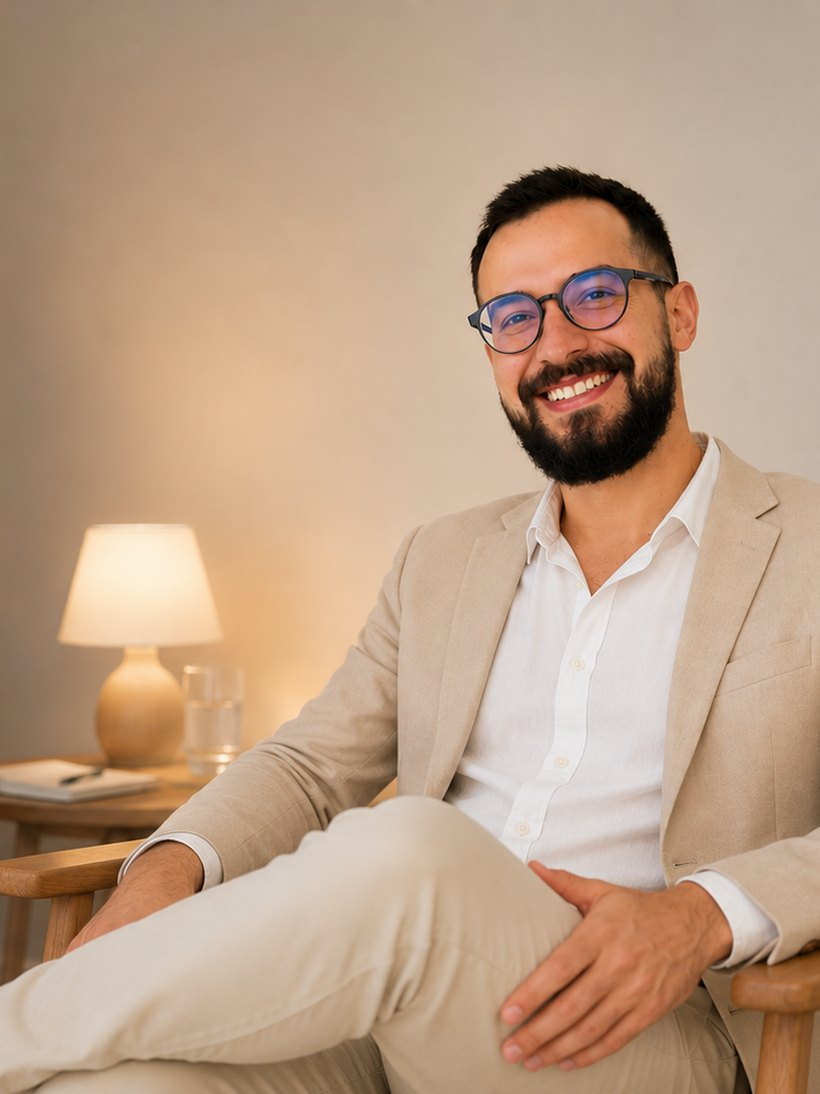
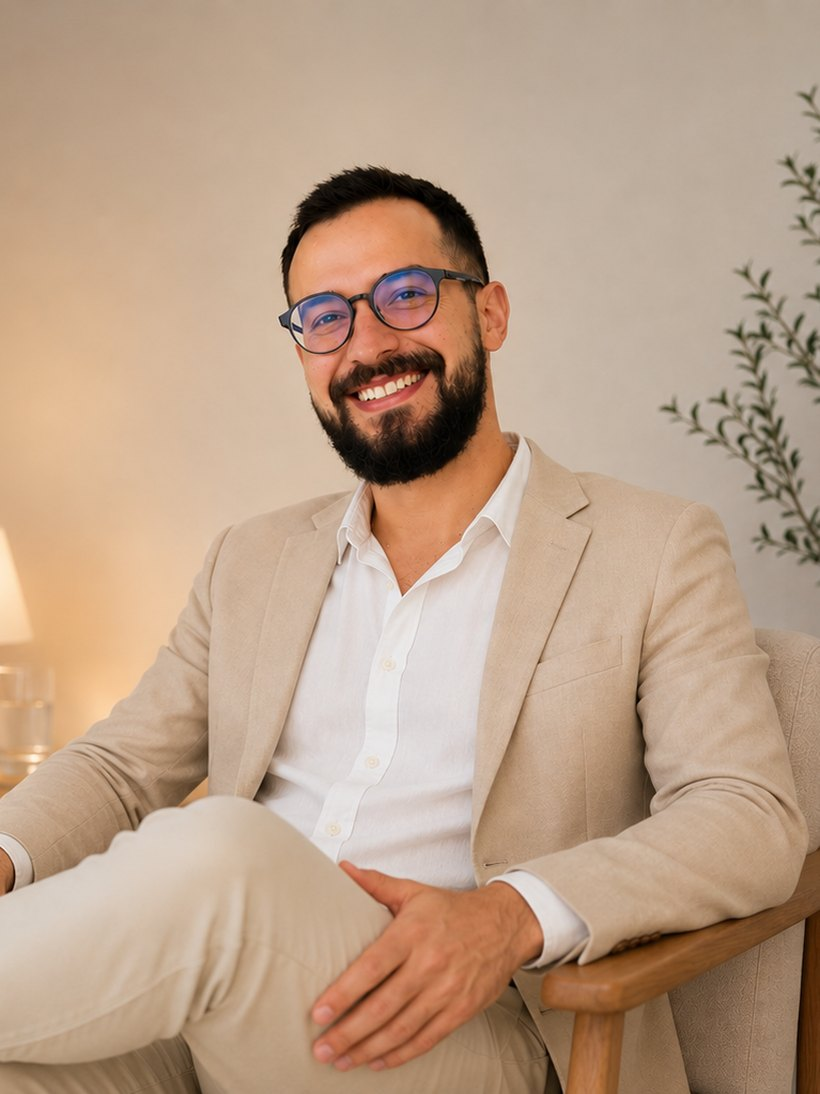
feat(v6.4): hero badge sem traço (HÍBRIDO na mesma linha) + cores legíveis, foto hero centrada no rosto, animações reforçadas no mobile, "como trabalho" object-top, sticky bar maior

diff --git a/src/components/landing/HeroBackdrop.tsx b/src/components/landing/HeroBackdrop.tsx
@@ -12,42 +12,20 @@ const HeroBackdrop = () => {
         viewBox="0 0 560 560"
         fill="none"
       >
-        <circle
-          cx="280"
-          cy="280"
-          r="240"
-          stroke="#B8CFBA"
-          strokeOpacity="0.18"
-          strokeWidth="1"
-          strokeDasharray="2 8"
-        />
-        <circle
-          cx="280"
-          cy="280"
-          r="180"
-          stroke="#5A8B6E"
-          strokeOpacity="0.14"
-          strokeWidth="1"
-        />
+        <circle cx="280" cy="280" r="240" stroke="#B8CFBA" strokeOpacity="0.26" strokeWidth="1" strokeDasharray="2 8" />
+        <circle cx="280" cy="280" r="180" stroke="#5A8B6E" strokeOpacity="0.20" strokeWidth="1" />
       </svg>
 
       {/* Mobile breathing ring (smaller, top-center) */}
       <svg
-        className="md:hidden absolute top-[18%] left-1/2 -translate-x-1/2 backdrop-breathe"
-        width="380"
-        height="380"
-        viewBox="0 0 380 380"
+        className="md:hidden absolute top-[16%] left-1/2 -translate-x-1/2 backdrop-breathe"
+        width="400"
+        height="400"
+        viewBox="0 0 400 400"
         fill="none"
       >
-        <circle
-          cx="190"
-          cy="190"
-          r="160"
-          stroke="#B8CFBA"
-          strokeOpacity="0.16"
-          strokeWidth="1"
-          strokeDasharray="2 7"
-        />
+        <circle cx="200" cy="200" r="170" stroke="#B8CFBA" strokeOpacity="0.30" strokeWidth="1.3" strokeDasharray="2 6" />
+        <circle cx="200" cy="200" r="120" stroke="#5A8B6E" strokeOpacity="0.22" strokeWidth="1.1" strokeDasharray="2 7" />
       </svg>
 
       {/* Drifting dotted lines + harmonic arc (desktop e mobile) */}
@@ -57,50 +35,12 @@ const HeroBackdrop = () => {
         viewBox="0 0 1440 900"
         fill="none"
       >
-        <line
-          className="backdrop-drift-down"
-          x1="180"
-          y1="-40"
-          x2="180"
-          y2="940"
-          stroke="#B8CFBA"
-          strokeOpacity="0.20"
-          strokeWidth="1"
-          strokeDasharray="3 10"
-        />
-        <line
-          className="backdrop-drift-up"
-          x1="320"
-          y1="940"
-          x2="320"
-          y2="-40"
-          stroke="#5A8B6E"
-          strokeOpacity="0.18"
-          strokeWidth="1"
-          strokeDasharray="3 10"
-        />
-        <line
-          className="backdrop-drift-slow"
-          x1="-40"
-          y1="640"
-          x2="1480"
-          y2="640"
-          stroke="#B8CFBA"
-          strokeOpacity="0.10"
-          strokeWidth="1"
-          strokeDasharray="2 12"
-        />
+        <line className="backdrop-drift-down" x1="180" y1="-40" x2="180" y2="940" stroke="#B8CFBA" strokeOpacity="0.34" strokeWidth="1.2" strokeDasharray="3 8" />
+        <line className="backdrop-drift-up" x1="320" y1="940" x2="320" y2="-40" stroke="#5A8B6E" strokeOpacity="0.32" strokeWidth="1.2" strokeDasharray="3 8" />
+        <line className="backdrop-drift-slow" x1="-40" y1="640" x2="1480" y2="640" stroke="#B8CFBA" strokeOpacity="0.22" strokeWidth="1.2" strokeDasharray="3 5" />
 
         {/* Harmonic arc echoing the arch frame above the photo */}
-        <path
-          className="backdrop-arc-drift"
-          d="M 820 380 Q 1080 240 1340 380"
-          stroke="#5A8B6E"
-          strokeOpacity="0.16"
-          strokeWidth="1"
-          fill="none"
-          strokeDasharray="4 8"
-        />
+        <path className="backdrop-arc-drift" d="M 820 380 Q 1080 240 1340 380" stroke="#5A8B6E" strokeOpacity="0.30" strokeWidth="1.2" fill="none" strokeDasharray="4 7" />
       </svg>
     </div>
   );

diff --git a/src/components/landing/StickyMobileBar.tsx b/src/components/landing/StickyMobileBar.tsx
@@ -26,12 +26,12 @@ const StickyMobileBar = () => {
         href={WA.default}
         target="_blank"
         rel="noopener noreferrer"
-        className="flex items-center justify-center gap-2 w-full
-                   bg-gold text-navy rounded-full py-3 px-6
-                   font-body font-semibold text-[14px] tracking-wide
+        className="flex items-center justify-center gap-2.5 w-full
+                   bg-gold text-navy rounded-full py-3.5 px-6
+                   font-body font-semibold text-base tracking-wide
                    transition-all hover:brightness-110"
       >
-        <MessageCircle size={17} strokeWidth={2} />
+        <MessageCircle size={19} strokeWidth={2.2} />
         Agendar pelo WhatsApp
       </a>
     </div>

diff --git a/src/components/landing/Abordagem.tsx b/src/components/landing/Abordagem.tsx
@@ -62,12 +62,12 @@ const Abordagem = () => (
       {/* Foto + frase-chave */}
       <div className="mt-16 grid md:grid-cols-12 gap-8 md:gap-10 items-center">
         <div className="md:col-span-5 fade-up">
-          <div className="rounded-3xl overflow-hidden shadow-card aspect-[4/3] md:aspect-[4/5]">
+          <div className="rounded-3xl overflow-hidden shadow-card aspect-[4/5]">
             <img
               src={lucasTrabalho}
               alt="Lucas Magno no consultório"
               loading="lazy"
-              className="w-full h-full object-cover object-center"
+              className="w-full h-full object-cover object-top"
             />
           </div>
         </div>

diff --git a/src/components/landing/Hero.tsx b/src/components/landing/Hero.tsx
@@ -79,9 +79,8 @@ const Hero = () => {
         <div className="w-full md:w-[52%] flex flex-col gap-5 md:gap-6 order-2 md:order-1">
 
           {/* Badge */}
-          <div className="fade-up flex items-center gap-3">
-            <div className="w-10 h-[2px] bg-gold" />
-            <span className="font-body text-[11px] font-semibold tracking-[0.22em] uppercase text-gold/90">
+          <div className="fade-up">
+            <span className="font-body text-[10px] sm:text-[11px] font-semibold tracking-[0.14em] sm:tracking-[0.22em] uppercase text-champagne">
               CRP 01/24403 · Brasília, DF · Híbrido
             </span>
           </div>

diff --git a/src/components/landing/CtaCentral.tsx b/src/components/landing/CtaCentral.tsx
@@ -41,7 +41,7 @@ const CtaCentral = () => (
             href="https://www.instagram.com/lucasmagno.psi/"
             target="_blank"
             rel="noopener noreferrer"
-            className="font-body text-[13px] text-gold/70 hover:text-gold transition-colors underline underline-offset-4"
+            className="font-body text-[13px] text-champagne/85 hover:text-champagne transition-colors underline underline-offset-4"
           >
             @lucasmagno.psi no Instagram
           </a>
